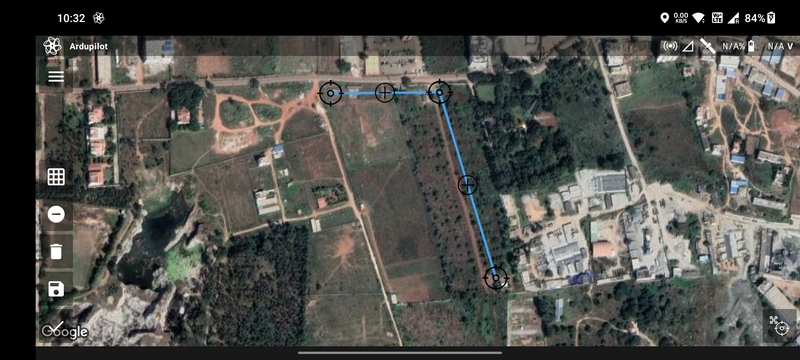
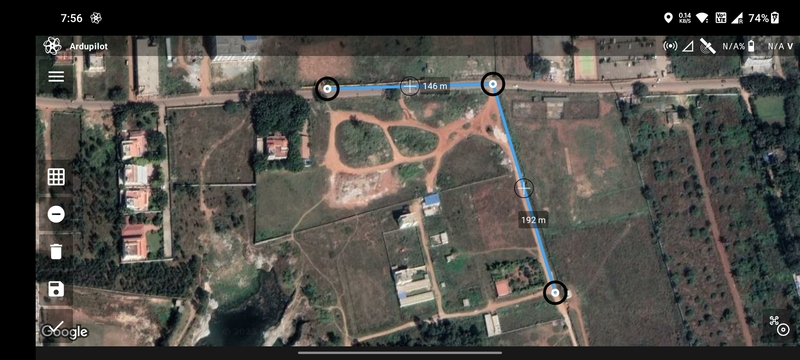
Update photo line

diff --git a/docs/launchpad/mission-planning/photo-line.md b/docs/launchpad/mission-planning/photo-line.md
@@ -55,8 +55,9 @@ The following parameters are available for a `Photo Line` mission:
 Based on the parameters selected, the following values are calculated and displayed:
 
 - `Total Photos`
-- `Flight Distance`
-- `Flight Duration`
+- `Total Distance`
+- `Total Duration`
+- `Max Distance`
 
 ![Data](./img/photo-line-data.jpg)
 
